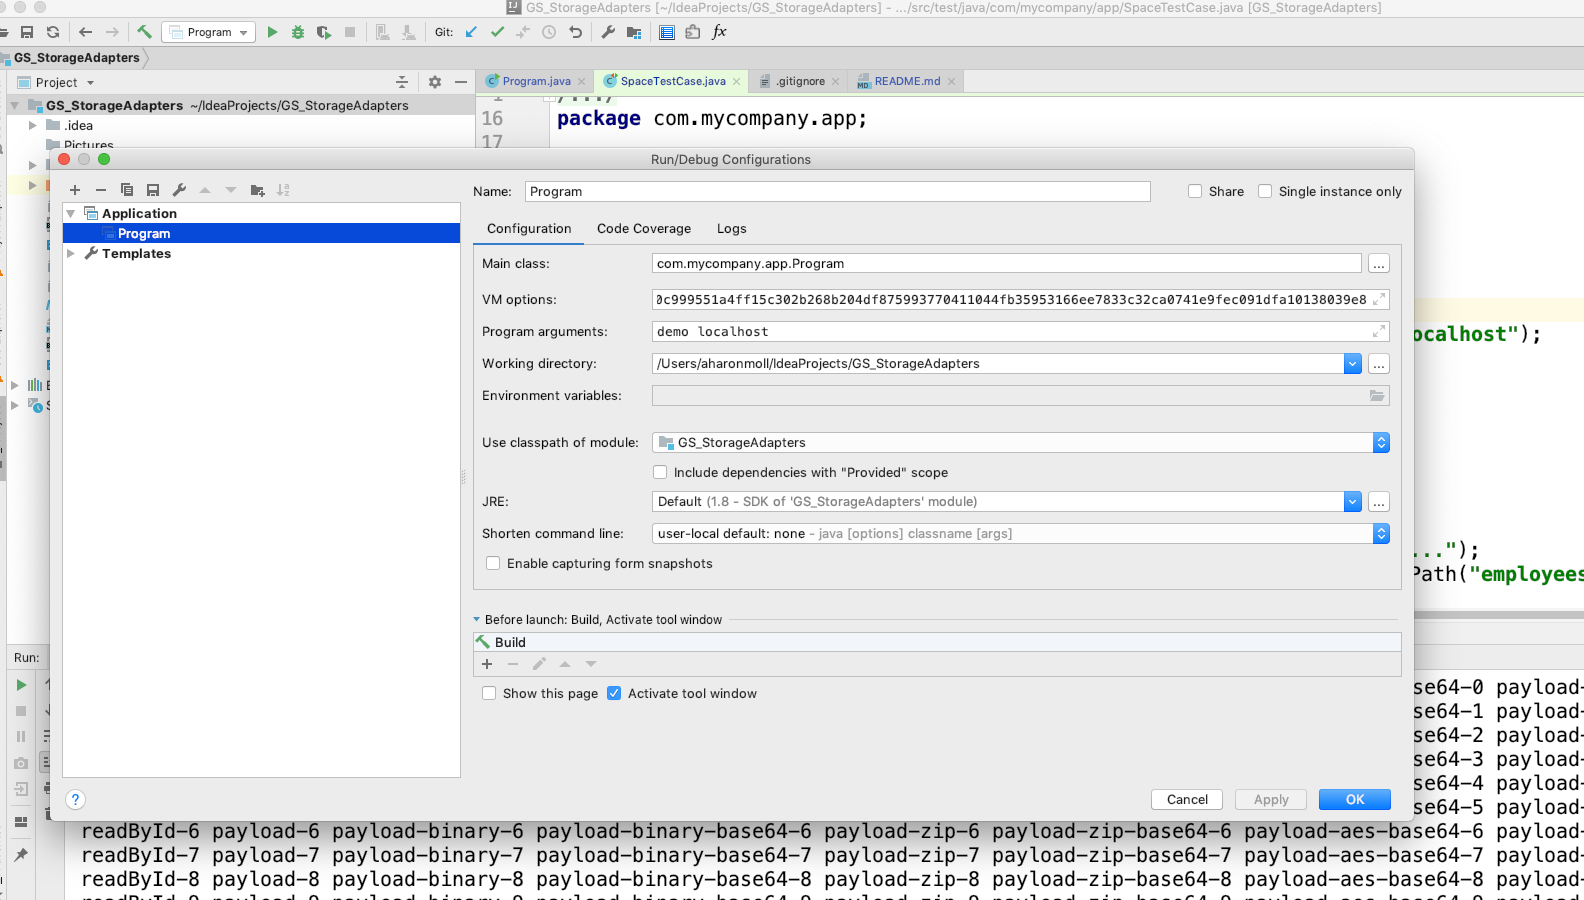
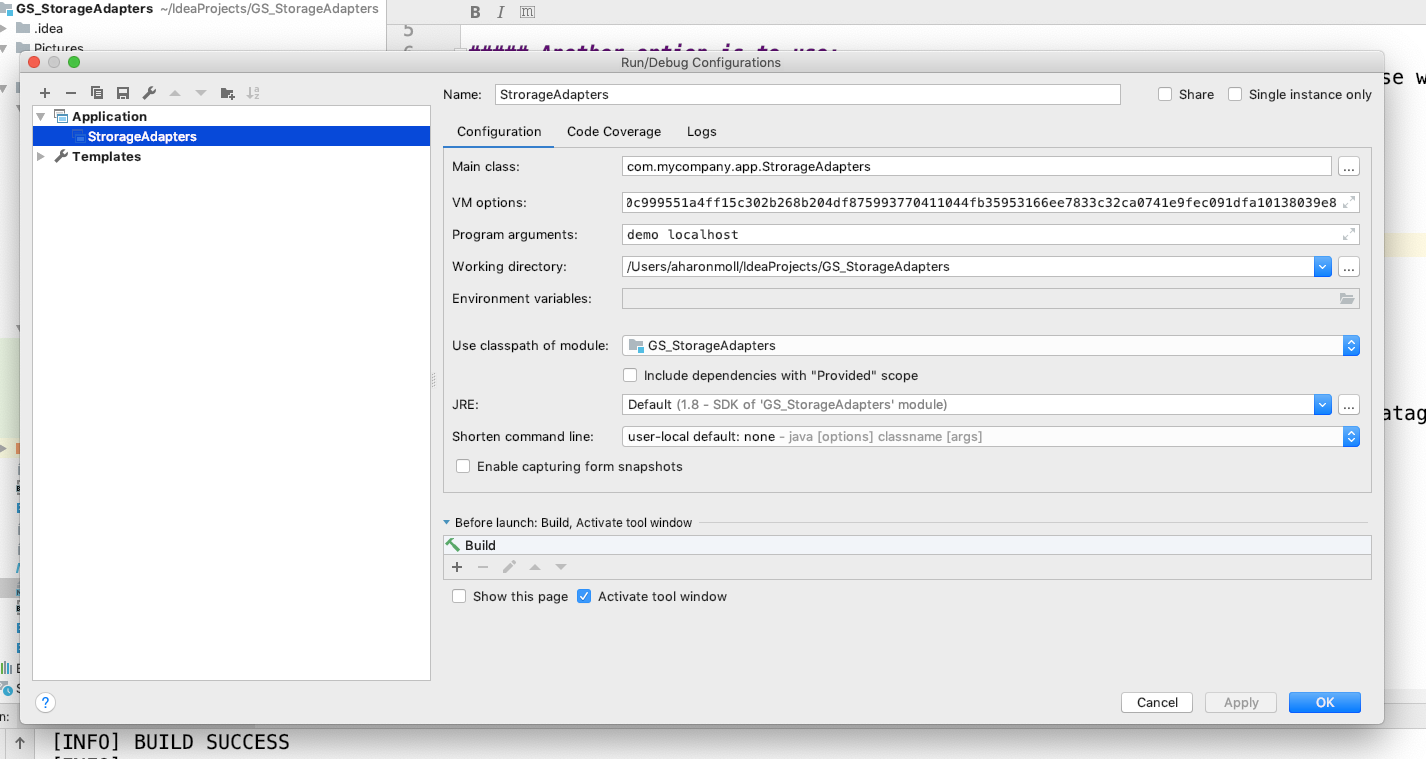
Add runStorageAdapters.sh script

Changed region(s): [[0.0, 0.0, 1.0, 1.0]]

diff --git a/src/main/java/com/mycompany/app/StrorageAdapters.java b/src/main/java/com/mycompany/app/StrorageAdapters.java
@@ -22,7 +22,7 @@ import org.openspaces.core.space.*;
 
 import java.util.function.Supplier;
 
-public class Program {
+public class StrorageAdapters {
     private static Supplier<Message> messageFactory=initMessageFactory("pojo");
     private static Message[] entries=null;
     private static GigaSpace gigaSpace;

diff --git a/src/test/java/com/mycompany/app/SpaceTestCase.java b/src/test/java/com/mycompany/app/SpaceTestCase.java
@@ -35,7 +35,7 @@ public class SpaceTestCase {
 
     @Before
     public void before() {
-        gigaSpace = Program.getOrCreateSpace(null, "localhost");
+        gigaSpace = StrorageAdapters.getOrCreateSpace(null, "localhost");
     }
 
     @Test

diff --git a/README.md b/README.md
@@ -11,7 +11,7 @@
 ![Screenshot](./Pictures/Picture1.png)
 
 #### Please run:
-    com.mycompany.app.Program.main()
+    com.mycompany.app.StrorageAdapters.main()
     
 #### For more usages examples please review:
     com.gigaspaces.test.storage_adapter.StorageAdapterBasicTest
@@ -20,7 +20,18 @@
 
  https://github.com/Gigaspaces/xap-premium/tree/master/xap-tests/xap-tests-datagrid/src/main/java/com/gigaspaces/test/storage_adapter
     
-    
+#### To execute on Linux aws machine
+* Put runStorageAdapters.sh & GS_StorageAdapters-0.1.jar in CSM home dir (/home/ec2-user)
+* Update all relevant parameters to fit your environment.<br>
+**Note:**<br>
+Current runStorageAdapters.sh sports SSL communication if not needed please remove SSL unnecessary parameters.
+*   `./runStorageAdapters.sh`
+* Output should be something like:
+
+![Screenshot](./Pictures/Picture2.png)
+
+
+ 
 
 
 
